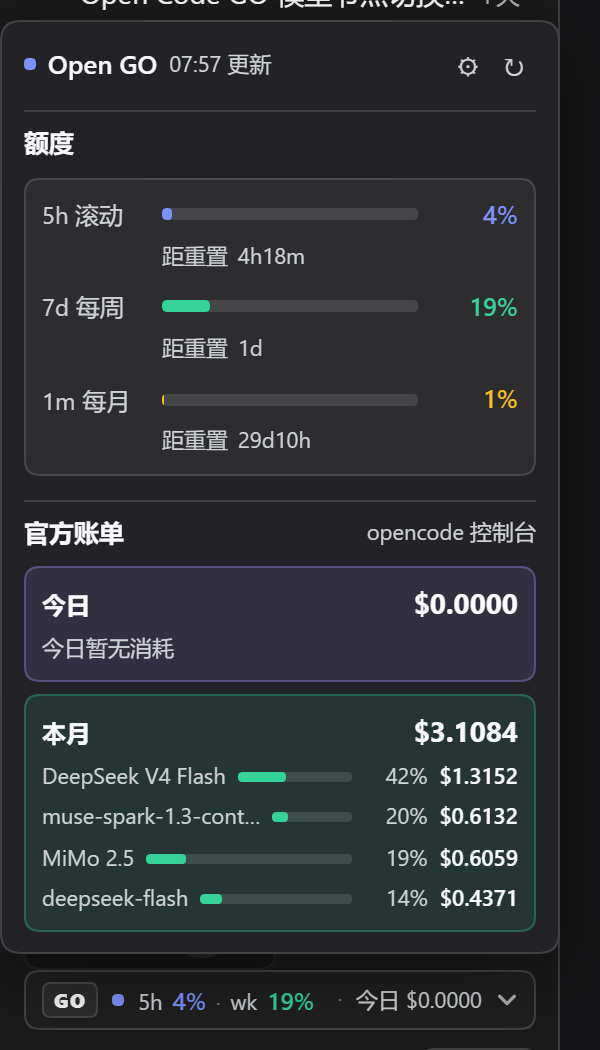
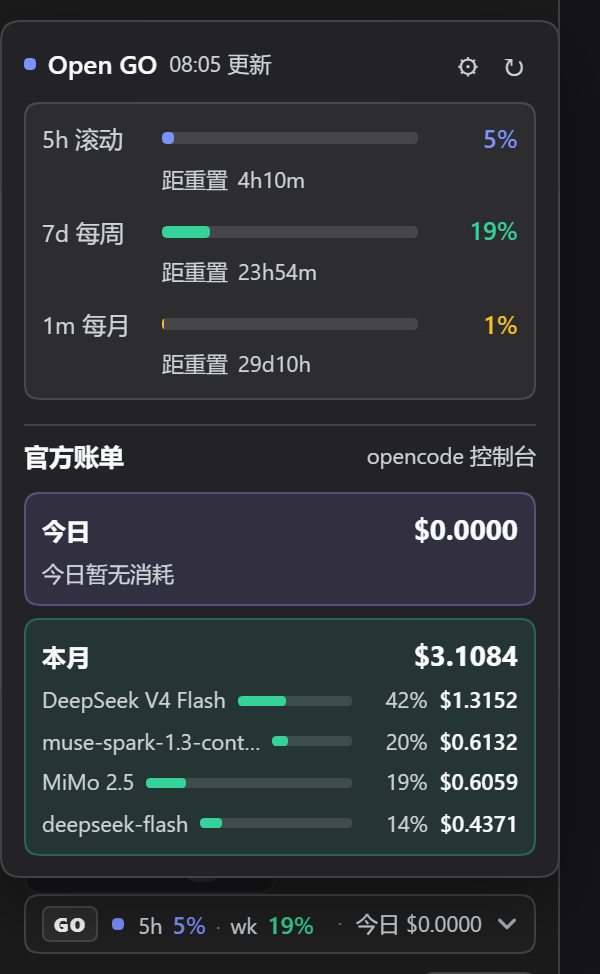
ui(opencode-quota): v0.9.1 去掉展开面板的「额度」分区标题（用户反馈）
- 三档卡片直接跟在标题栏下，面板高度 239 → 201px；账单打开时保留「官方账单」分区标题作分界
- 去掉标题里冗余的「仍显示上次数据」（额度刷新失败时下方本就有独立提示行）
- 复跑 .verify/sidebar-check.mjs：sectionTitles 由 ["额度"] → []（账单关）/ ["官方账单"]（账单开），
  panelH 239 → 201（账单开 467 → 429）；其余探针不变（pill 256×31、溢出 0、账单默认 0 卡、
  弹窗 340×435 居中、reduced-motion 动画数 0、收起后卸载）
- assets 截图与 .verify/probes-v0.9.1.json 同步更新

diff --git a/lib/client.js b/lib/client.js
@@ -1,7 +1,7 @@
 window.__ModuleLoader__.load({ id: "@dsh-external/dsh-opencode-quota", factory: (require) => {
 var module = { exports: {} }; var exports = module.exports;
 /**
- * dsh-opencode-quota（浏览器端）v0.9.0
+ * dsh-opencode-quota（浏览器端）v0.9.1
  *
  * 侧边栏「设置」按钮上方（sidebar.footer.action 插槽）的 Open GO 套餐额度小组件。
  *
@@ -763,11 +763,7 @@ function QuotaWidget(props) {
         }, err ? '重试' : React.createElement('span', { key: 'i', className: spinning ? 'dshoq-spin' : '' }, '↻')),
       ]),
     ]),
-    // —— 额度 ——
-    React.createElement('div', { key: 'qhead', className: 'dshoq-sect' }, [
-      React.createElement('span', { key: 't', className: 'dshoq-sect-t' }, '额度'),
-      warn ? React.createElement('span', { key: 'n', className: 'dshoq-sect-n' }, '仍显示上次数据') : null,
-    ]),
+    // —— 额度卡片（不起分区标题：三行自带档位名；账单开着时由「官方账单」那条线分隔）——
     React.createElement('div', { key: 'qcard', className: 'dshoq-card' }, quotaRows),
     err ? React.createElement('div', { key: 'err', className: 'dshoq-err' }, state.error) : null,
     warn ? React.createElement('div', { key: 'warn', className: 'dshoq-warn' }, '额度更新失败（仍显示上次数据）：' + warn) : null,

diff --git a/lib/index.js b/lib/index.js
@@ -1,5 +1,5 @@
 /**
- * dsh-opencode-quota（宿主侧）v0.9.0
+ * dsh-opencode-quota（宿主侧）v0.9.1
  *
  * OpenCode GO 套餐额度查询：
  * - GET /dsh-opencode-quota/api/status → { ok, usage: {rolling, weekly, monthly}, limits, fetchedAt }

diff --git a/UI-SPEC-v0.9.md b/UI-SPEC-v0.9.md
@@ -12,7 +12,7 @@
 |---|---|---|
 | 收起态 pill | `GO` 徽标 · 状态点 · `5h 7% · wk 12% · mo 85%` · 箭头 | 三档全部可见（参考图的核心诉求）；账单开启时追加 `· 今日 $x.xxxx` |
 | 面板 · 标题栏 | 状态点 · `Open GO` · `HH:mm 更新` · ⚙ · ↻ | 与现状一致，只加动效与可达性 |
-| 面板 · 额度 | 分区标题「额度」+ 中性卡片，三行：`5h 滚动` / `7d 每周` / `1m 每月` | 每行：名称 + 进度条 + 百分比；次行 `距重置 2h6m` |
+| 面板 · 额度 | 直接放中性卡片（v0.9.1 起**不再有「额度」分区标题**），三行：`5h 滚动` / `7d 每周` / `1m 每月` | 每行：名称 + 进度条 + 百分比；次行 `距重置 2h6m` |
 | 面板 · 官方账单 | 分区标题「官方账单」+ 今日（紫）/ 本月（绿）两张卡 | **默认不渲染**；由 ⚙ 开关控制，关闭时也不请求官网接口 |
 | ⚙ 弹窗 | 顶部 = 「显示官方账单」开关；其下 = workspace id / cookie / 提示 / 取消·保存 | 深色固定配色（主题变量在部分环境会解析成浅色） |
 | 窄侧栏 rail | 42×48 竖排迷你卡：三根迷你条 + 月度百分比 + 箭头 | 与 pill 同一套视觉语言 |
@@ -72,8 +72,13 @@
 
 - [ ] 收起态读数是 `5h / wk / mo` 三档，且与面板三行数值一致
 - [ ] 面板三行 = 名称 + 条 + 百分比（同一行），次行 `距重置` 紧凑倒计时
+- [ ] 面板里**没有**「额度」分区标题（v0.9.1 用户要求去掉）
 - [ ] 账单默认不显示；⚙ 里开关打开后出现「今日 / 本月」并拉取数据；关掉即消失且停止请求
 - [ ] 开关状态与面板开合状态刷新后仍在
 - [ ] 面板开合有动效且不闪烁；`prefers-reduced-motion` 下无动效
 - [ ] 亮/暗主题下文字与描边都清晰（`light-dark()` + 主题变量回退）
 - [ ] 键盘：Tab 到 pill 可开合、`Esc` 收起、开关可键盘切换
+
+## 8. 版本追补
+
+- **v0.9.1**（2026-09-13）：按用户截图要求**去掉展开面板里的「额度」分区标题**，三档卡片直接跟在标题栏下（面板高度 239 → 201px）；账单打开时「官方账单」分区标题与分隔线保留，作为额度与账单之间的分界。探测：`sectionTitles` 由 `["额度"]` 变为 `[]`（账单关）/ `["官方账单"]`（账单开）。

diff --git a/.verify/VERIFY-REPORT.md b/.verify/VERIFY-REPORT.md
@@ -45,3 +45,22 @@
 | `shots/06-panel-light.png` | 亮色模拟（无效，见缺口 1） |
 
 README 里的 `assets/screenshot-*.png` 已同步替换成本轮截图（同一份像素）。
+
+---
+
+## 附：v0.9.1 追补（2026-09-13 08:07）
+
+**用户反馈**：展开面板里「额度」这两个字去掉（截图圈出区块标题）。
+
+**改动**：面板不再渲染分区标题，三档卡片直接跟在标题栏下；账单打开时「官方账单」分区标题与分隔线保留，充当额度与账单之间的分界。`warn`（仍显示上次数据）本来就有一行独立提示，标题里那条冗余提示一并消失。
+
+**复跑验证**（同一脚本、同一宿主，`node .verify/sidebar-check.mjs` → exit 0）：
+
+| 探针 | v0.9.0 | v0.9.1 |
+|---|---|---|
+| `sectionTitles`（账单关） | `["额度"]` | `[]` |
+| `sectionTitles`（账单开） | `["额度","官方账单"]` | `["官方账单"]` |
+| 面板高度（账单关 / 开） | 239 / 467 px | **201 / 429 px** |
+| 其他项（pill、溢出、账单卡数、弹窗居中、reduced-motion、收起卸载） | 全绿 | 全绿（不变） |
+
+截图：`shots/02b-panel-only.png`（无标题）、`shots/05b-panel-billing-only.png`（只剩「官方账单」分区线）。

diff --git a/.verify/PUBLISH-v0.9.1.md b/.verify/PUBLISH-v0.9.1.md
@@ -1,0 +1,10 @@
+# v0.9.1 发布记录
+
+| 项 | 值 |
+|---|---|
+| 仓库 | `https://github.com/Animal2404/dsh-open-go` |
+| 改动 | 去掉展开面板里的「额度」分区标题（用户反馈截图圈出）；三档卡片直接跟在标题栏下；账单打开时保留「官方账单」分区标题作分界 |
+| 版本 | `package.json` 0.9.0 → 0.9.1；`lib/client.js` / `lib/index.js` 头注释同步 |
+| 验证 | `.verify/sidebar-check.mjs` 复跑 exit 0：`sectionTitles` 由 `["额度"]` → `[]`（账单关）/ `["官方账单"]`（账单开）；面板高度 239 → 201px（账单开 467 → 429px）；其余探针不变（pill 256×31、溢出 0、账单默认 0 卡、弹窗 340×435 居中、reduced-motion 动画数 0、收起后卸载） |
+| 截图 | `assets/screenshot-closeup.png`（无标题）、`assets/screenshot-main.png`（账单打开）等 4 张已换成 v0.9.1 实测帧 |
+| 探针 | `.verify/probes-v0.9.1.json` |
